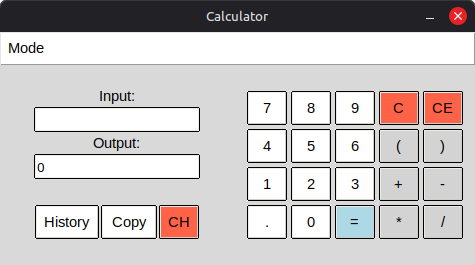
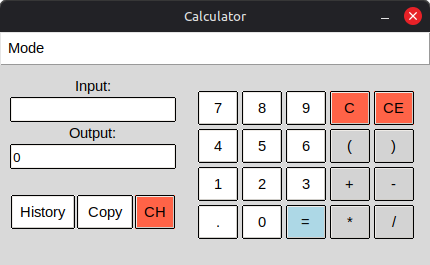
Small changes & updated visuals

diff --git a/tkinter_calculator.py b/tkinter_calculator.py
@@ -52,7 +52,9 @@ class CalculatorBody(tk.Tk):
             'sin': sin_deg,
             'cos': cos_deg,
             'tan': tan_deg,
-            'cot': cot_deg
+            'cot': cot_deg,
+            'log': math.log10,
+            'ln': math.log1p
         })
 
         try:
@@ -80,7 +82,7 @@ class CalculatorBody(tk.Tk):
         apply_custom_styles(self)
 
     def calculate(self, event=None):
-        operations = ['+', '-', '*', '/', 'sin', 'cos', 'tan', 'cot']
+        operations = ['+', '-', '*', '/', 'sin', 'cos', 'tan', 'cot', 'log', 'ln']
         self.expression = self.inserted_number.get()
 
         if not any ((element in self.expression) for element in operations):
@@ -172,7 +174,9 @@ class CalculatorBody(tk.Tk):
                 'sin': math.sin,
                 'cos': math.cos,
                 'tan': math.tan,
-                'cot': cot_rad
+                'cot': cot_rad,
+                'log': math.log10,
+                'ln': math.log1p
             })
 
             self.deg_button.set('Rad')
@@ -182,7 +186,9 @@ class CalculatorBody(tk.Tk):
                 'sin': sin_deg,
                 'cos': cos_deg,
                 'tan': tan_deg,
-                'cot': cot_deg
+                'cot': cot_deg,
+                'log': math.log10,
+                'ln': math.log1p
             })
 
             self.deg_button.set('Deg')